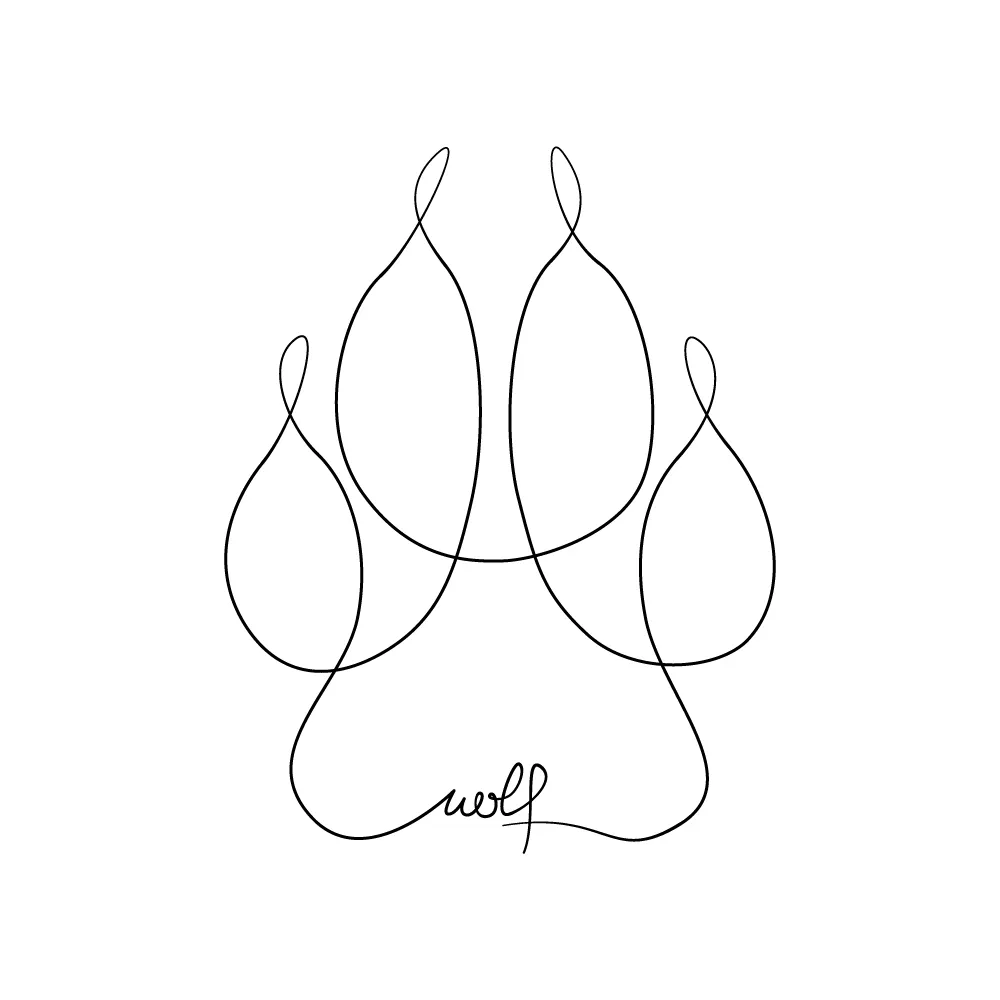
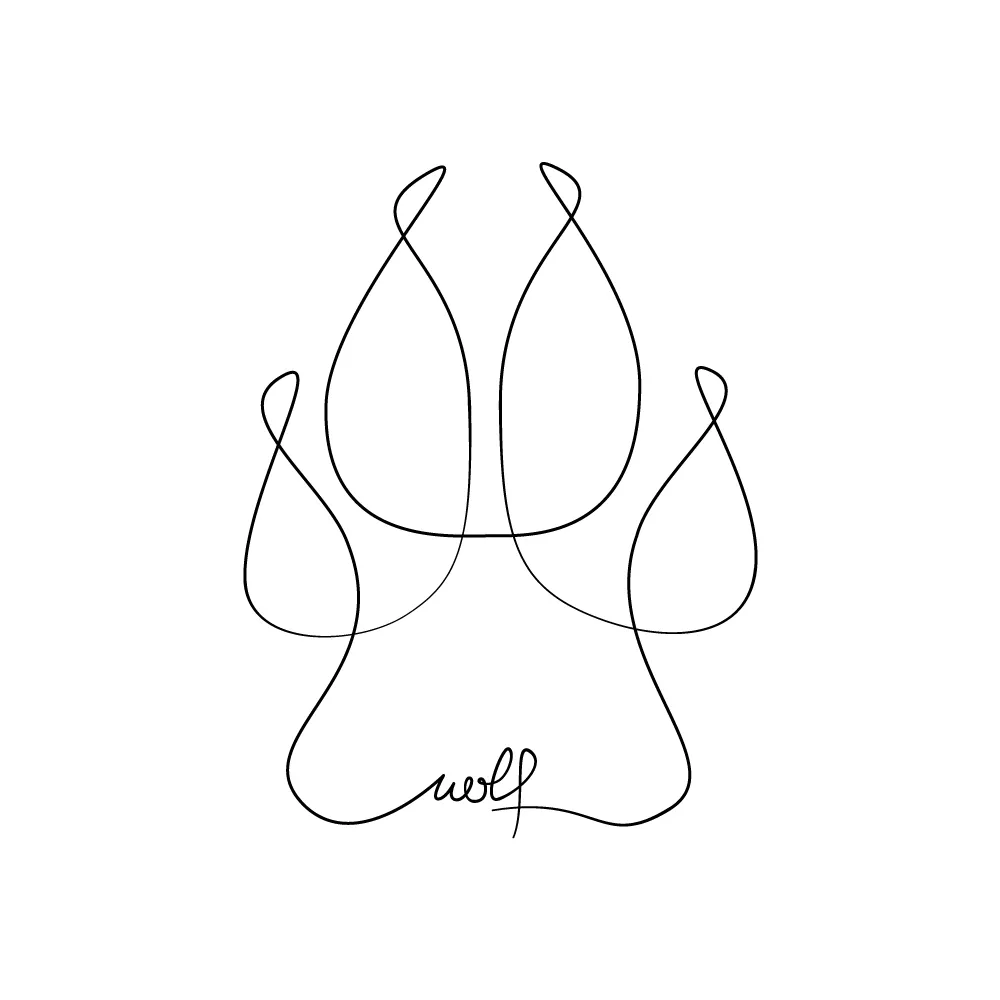
updated wolfs paw

diff --git a/index.html b/index.html
@@ -33,19 +33,17 @@
       <span slot="description">#23 Wolf Paw</span>
       <svg slot="svg" x="0px" y="0px" width="100%" height="100%" viewBox="0 0 1000 1000">
         <path fill="none" stroke="#000000" stroke-width="3" stroke-linecap="round" stroke-linejoin="round" stroke-miterlimit="10" d="
-          M503,825.5c105.452-16.979,107.874,41.9,177.463-1.625C751.9,779.193,660.375,693.318,645.735,619
-          c-14.64-74.316,2.806-127.746,31-160c59.181-65.544,37.169-111.499,18.409-120.741c-18.758-9.242-12.303,52.606,33.919,108.802
-          c46.222,56.196,65.353,145.739,16.917,194.581c-31.395,29.695-112.562,34.521-158.143-6.781
-          c-45.58-41.301-52.938-72.373-69.483-137.109c-16.546-64.735-10.298-192.583,32.338-236.491
-          c42.636-43.909,33.091-80.181,12.008-108.846s-14.35,72.042,36.648,111.04c54.091,41.363,66.524,172.167,40.11,223.646
-          c-26.414,51.476-105.953,73.173-137.135,73.81s-90.358,1.346-139.603-67.621c-49.245-68.967-21.42-180.389,17.836-217.345
-          c39.257-36.956,90.034-152.385,57.816-123.532s-31.683,63.632,7.322,113.443s41.43,166.278,25.452,236.244
-          c-15.979,69.967-31.473,113.799-80.486,145.736C341.648,679.771,285.28,684.363,247.735,629s-23.333-118.667,14.667-166
-          c38-47.333,61.677-147.42,31.839-123.043s-7.685,84.551,23.495,114.377c31.18,29.826,53.565,92.225,40,162.666
-          S247.15,753.162,314.604,820.387c55.681,54.002,139.465-29.72,139.465-29.72s-13.389,23.3-5.604,23.441s15.785-15.358,15.785-15.358
-          s-6.916,15.249,2.417,16.25s19.647-19.95,13.81-21.803s-8.81,23.219,4.523,23.386c17.167-0.083,10.57-26.596,5.403-22.096
-          s12.004,7.748,21.097-0.487s13.816-26.991,7.5-30s-29.063,57.593-9.081,49.939s48.099-34.432,30.715-47.311
-          s-3.608,53.777-16.759,86.018"/>
+          M492.011,809.847c105.453-16.979,107.875,41.9,177.463-1.625c71.438-44.682-76.42-149.677-33.139-273.041
+          c16.948-63.431,128.736-138.845,74.736-164.845s53.345,108.638,43.939,198.011c-8.111,77.077-98.5,75-168.5,45
+          s-86.6-76.68-86.6-212.674c0-154.659,128.378-195.764,58.678-231.845c-69.701-36.081,83.816,102.726,80.619,219.289
+          c-1.197,151.897-108.873,147.23-150.198,147.23c-41.324,0-166.334,12-163.504-127.994c-0.162-104.673,179.17-282.674,97.17-232.007
+          c-82,50.667,40.958,77.245,46.146,225.289c5.188,148.045-13.799,181.774-62.813,213.711
+          c-49.014,31.936-156.987,35.165-161.397-32.913c-5.352-82.612,92.305-241.131,34.397-204.087
+          c-57.907,37.043,47.736,107.787,68.09,165.432c53.646,135.793-110.939,194.73-43.486,261.955
+          c55.682,54.002,139.465-29.72,139.465-29.72s-13.389,23.3-5.604,23.441s15.785-15.358,15.785-15.358s-6.916,15.249,2.417,16.25
+          s19.647-19.95,13.81-21.803c-5.836-1.853-8.81,23.219,4.523,23.386c17.167-0.083,10.57-26.596,5.403-22.096
+          s12.004,7.748,21.097-0.487c9.093-8.235,13.816-26.991,7.5-30s-29.064,57.593-9.082,49.939
+          c19.983-7.653,48.099-34.432,30.715-47.311s-3.608,53.777-16.759,86.018"/>
       </svg>
     </image-component>
 
